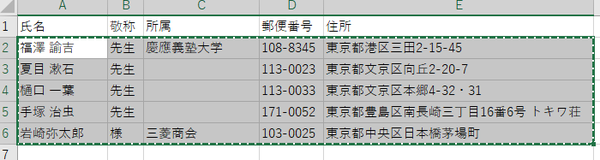
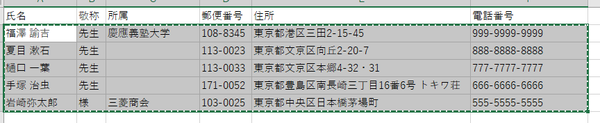
add phone number field

diff --git a/index.html b/index.html
@@ -30,6 +30,7 @@
             <th>所属</th>
             <th>郵便番号</th>
             <th>住所</th>
+            <th>電話番号</th>
         </tr>
     </thead>
     <tbody>
@@ -39,6 +40,7 @@
             <td>慶應義塾大学</td>
             <td>108-8345</td>
             <td>東京都港区三田2-15-45</td>
+            <td>999-9999-9999</td>
         </tr>
         <tr>
             <td>夏目 漱石</td>
@@ -46,6 +48,7 @@
             <td></td>
             <td>113-0023</td>
             <td>東京都文京区向丘2-20-7</td>
+            <td>888-8888-8888</td>
         </tr>
         <tr>
             <td>樋口 一葉</td>
@@ -53,6 +56,7 @@
             <td></td>
             <td>113-0033</td>
             <td>東京都文京区本郷4-32・31</td>
+            <td>777-7777-7777</td>
         </tr>
     </tbody>
 </table>
@@ -64,38 +68,56 @@
 <script>
 function clickBtn_import() {
     const tsv_toImport = document.form_toImport.textarea1.value;
-    const targetTable = document.getElementById("table1");
-    import2table(tsv_toImport, targetTable);
+    const tbody = document.querySelector("#table1 tbody");
+    resetTable(tbody);
+    import2table(tsv_toImport, tbody);
 }
 
-function resetTable(tableObj){
-    const maxRow = tableObj.rows.length;
-    for (let r = maxRow - 1; r > 0; r--) {
-        tableObj.deleteRow(r);
+function resetTable(tbody){
+    const maxRow = tbody.rows.length;
+    if (maxRow > 1) {
+        for (let r = maxRow - 1; r >= 0; r--) {
+            tbody.deleteRow(r);
+        }
     }
 }
 
-function zen2han(str) {
+function toHalfWidth(str) {
     return str.replace(/[Ａ-Ｚａ-ｚ０-９]/g, function(s) {
         return String.fromCharCode(s.charCodeAt(0) - 0xFEE0);
     });
 }
 
-function import2table(lines, tableObj) {
-    resetTable(tableObj);
-    lines.split(/[\r\n]+/g)
-        .filter(line => line)
-        .forEach((line, r) => {
-            const row = tableObj.insertRow(-1);
-            const labelElement = line.split(/\t/g);
-            for (let i = 0; i < 5; i++) {
-                const currentCell = row.insertCell(i);
-                const text = labelElement[i].trim()
-                    .replace(/^(\d{3})([^\d])?(\d{4})$/, "$1-$3");
-                currentCell.innerText = zen2han(text.trim());
-                currentCell.style.color = "#343434"
-            }
-        });
+function formatPostalCode(s) {
+    return toHalfWidth(s).replace(/^(\d{3})([^\d])?(\d{4})$/, "$1-$3");
+}
+
+function fromLine(row, s) {
+    let fields = s.split(/\t/g);
+    if (fields.length < 6) {
+        for (let i = fields.length; i < 6; i++) {
+            fields.push("");
+        }
+    }
+    else if (fields.length > 6) {
+        fields = fields.slice(0, 6);
+    }
+    fields.forEach((s, i) => {
+        const cell = row.insertCell(i);
+        let t = s.trim();
+        if (i == 3) {
+            t = formatPostalCode(t);
+        }
+        cell.innerText = toHalfWidth(t);
+        cell.style.color = "#343434"
+    })
+}
+
+function import2table(lines, tbody) {
+    lines.split(/[\r\n]+/g).filter(line => line).forEach(line => {
+        const row = tbody.insertRow(-1);
+        fromLine(row, line);
+    });
 }
 
 function openLabel() {
